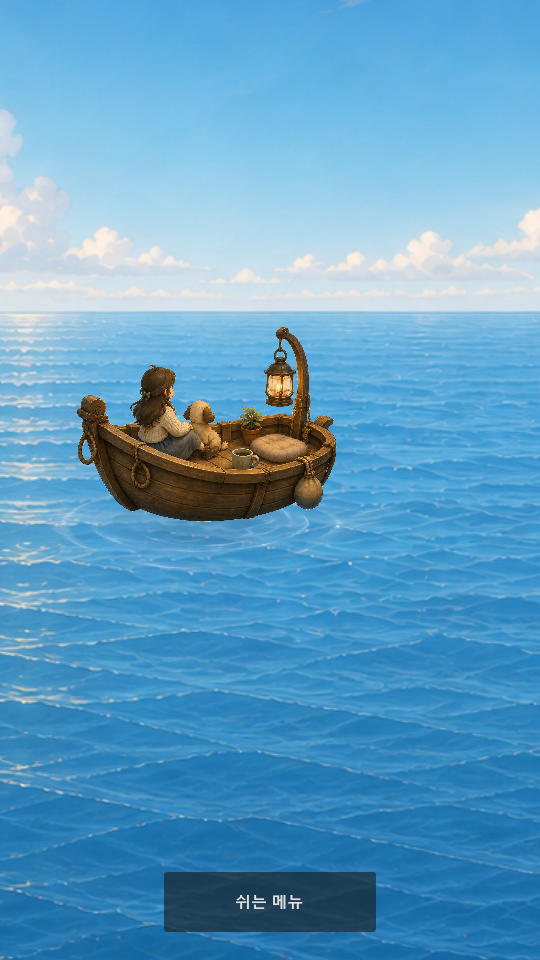
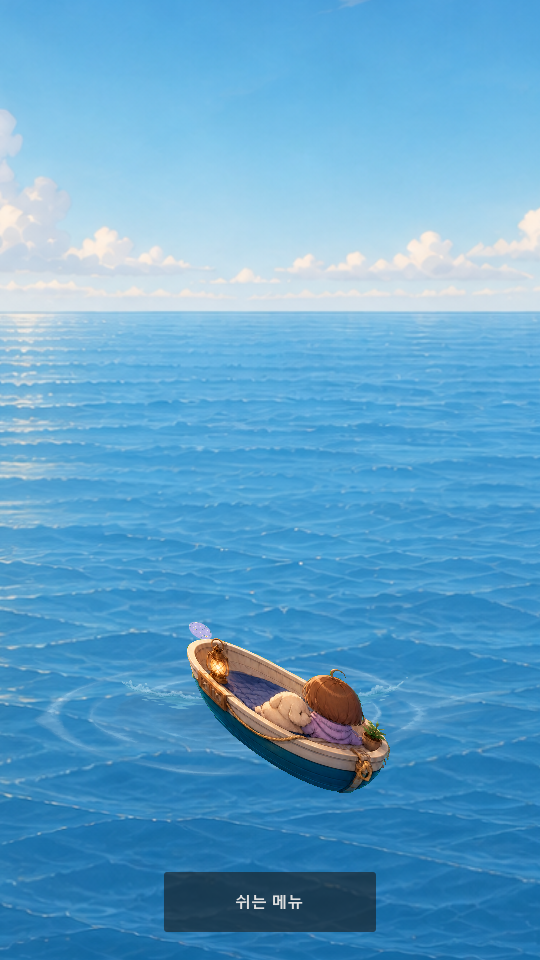
Verify voyage motion against benchmarks

diff --git a/docs/handoffs/CURRENT_GODOT_IMPLEMENTATION.md b/docs/handoffs/CURRENT_GODOT_IMPLEMENTATION.md
@@ -19,7 +19,7 @@
 | 저밀도 풍경 | `DriftSceneryDirector`는 foreground delta만 누적해 첫 **기회**를 90–150초에 예약하고, 기회마다 65% 확률로 현재 local-time의 `MLB-AMB-MOTIF-001..006` 중 하나를 표시한다. 표시 여부와 무관하게 이후 기회는 120–180초 뒤에 다시 예약된다. bright·sunset은 즉시 같은 motif를 반복하지 않는다. `GameScene`은 water-only `SeaBackdrop`을 유지한 채 chosen exact texture를 normal·Appreciation `AmbientSceneryPass`에 넣고, authored side hint `backdrop_offset_x`를 ±21 world-unit transit로 넓혀 약 14초간 좌우 이동·입퇴장 fade한다. pass는 세로 화면 높이를 overscan하므로 수평 image edge가 보트 화면을 가르지 않는다. Look Around art는 건드리지 않는다. 버튼·목적지·만료·보상 track은 없고, `save_memory=true`만 `GameState.record_ambient_memory`를 거쳐 `user://ambient_memory_v1.cfg`에 즉시 저장한다. 0회 항해는 정상이며 UI에 확률·대기 시간·missed state는 없다. | director/scene + ambient persistence/state/game-scene + motif asset contracts `PASS`; six 540×960 OpenGL pass captures `PASS`; Human long-run observation `NOT_RUN` |
 | 꾸미기 consumer | `DecorPanel`이 player/pet local selector와 boat decor controls를 제공하고, `DecorPreview`의 독립 `BoatSpace` instance가 그 state를 즉시 표시한다. 기본 C+강아지 final composite에서는 저장된 `pet_corner=pet_cushion, appearance=floral`만 bow-side overlay로 소비한다. 기존 save ID의 alternate A/B player, cat/rabbit/otter, `stripe`·`moon`은 user-approved canonical chibi paths로 layered card/decor texture에 연결된다. `rail_accent=postcard`는 main rest composite에 합성하지 않고 independent preview의 actual rail face로만 소비하며, 실제 voyage photo postcard는 Album에서 본다. 숨김 상태에서는 SubViewport 3D, render target, camera, preview BoatSpace를 모두 비활성화하고, 열 때만 함께 활성화한다. | identity/runtime-image/capture-guard/final-composite/decor-preview contracts `PASS`; alternate 540×960 GPU capture inspected; Human readability `NOT_RUN` |
 | 함께한 시간 consumer | `GameScene`은 foreground active-voyage delta만 `GameState.together_time_seconds`에 더하고, `TogetherTimePersistence`가 `user://together_time_v1.cfg`에 local-only로 저장한다. `AlbumView`만 duration·관계 문구를 표시한다. | persistence/state/game-scene/Album contracts `PASS`, 540×960 Album GPU capture inspected; Human readability `NOT_RUN` |
-| 모션 편안함과 기본 바다 흐름 | `ComfortPreferences`가 `user://comfort_preferences_v1.cfg`의 normalized `standard/gentle/still`만 저장한다. `GameScene`은 camera y bob, 하단 20% 기준의 `BoatSpace` y bob/roll, 목적지 없는 순환형 전후 surge와 미세한 측면 current, `BoatWaterContact`와 `BoatWaterlineContact`의 breath/offset/scale을 각각 `1.0 / 0.5 / 0.0`으로 곱한다. title waiting도 visual-only 저진폭 bob과 `voyage_water_flow.gdshader`의 below-horizon flow를 보이지만 voyage timer·together time·ambient director는 전진하지 않는다. 항해 시작 뒤 flow는 speed tier와 함께 빨라진다. 두 contact는 same x/z와 거의 같은 y bob을 따른다. `MLB-BOAT-FLT-006`은 depth test를 유지한 앞쪽의 얇은 선체 접점으로 runtime 소비되고, sea-focused Appreciation mode에서는 `BoatSpace`와 두 contact를 함께 숨겨 하단 UI와 겹치지 않는다. | forward-drift + waterline v2 + appreciation-foreground contracts `PASS`; `2026-08-31-title-boat-flow` OpenGL 2초 frame delta와 `2026-08-31-waterline-contact-v2` OpenGL title/voyage/Appreciation capture `PASS`; Human motion comfort `NOT_RUN` |
+| 모션 편안함과 기본 바다 흐름 | `ComfortPreferences`가 `user://comfort_preferences_v1.cfg`의 normalized `standard/gentle/still`만 저장한다. `GameScene`은 camera y bob, 하단 20% 기준의 `BoatSpace` y bob/roll, 목적지 없는 순환형 전후 surge와 미세한 측면 current, `BoatWaterContact`와 `BoatWaterlineContact`의 breath/offset/scale을 각각 `1.0 / 0.5 / 0.0`으로 곱한다. title waiting도 visual-only 저진폭 bob과 `voyage_water_flow.gdshader`의 below-horizon flow를 보이지만 voyage timer·together time·ambient director는 전진하지 않는다. 항해 시작 뒤 flow는 speed tier와 함께 빨라진다. 두 contact는 same x/z와 거의 같은 y bob을 따른다. `MLB-BOAT-FLT-006`은 depth test를 유지한 앞쪽의 얇은 선체 접점으로 runtime 소비되고, sea-focused Appreciation mode에서는 `BoatSpace`와 두 contact를 함께 숨겨 하단 UI와 겹치지 않는다. | forward-drift + waterline v2 + appreciation-foreground contracts `PASS`; 2026-08-31 OpenGL frame probe의 standard 수면 변화 `43.28% / 42.86%`, still 수면 변화 `41.49%`, contact lock `PASS`; current start/crest capture `PASS`; Human motion comfort `NOT_RUN` |
 | 항해 포스트카드 | `PhotoMemoryPersistence`가 `user://voyage_postcards_v1.cfg`와 local PNG directory를 함께 소유한다. `GameScene._capture_voyage_postcard()`는 public `TakePhotoButton` 흐름에서 selection UI만 잠시 숨기고 post-draw `ViewportTexture.get_image()`를 저장한 뒤 가시성을 원상 복구한다. `AlbumView`는 유효 PNG만 newest-first 세 장으로 표시하며 score/reward/share를 만들지 않는다. | persistence/state/game-scene/Album contracts와 isolated bright/Album GPU capture `PASS`; Human readability `NOT_RUN` |
 | 물고기와 완료 항해 기록 | `MemoryLedgerPersistence`가 `user://memory_ledger_v1.cfg`의 `fish`와 `voyage_records` string 목록만 즉시 local save·restore한다. `GameState.add_fish()`와 post-zero `complete_voyage()`가 각각 저장하고, Album은 복원된 최신 항목을 요약·recent memory로 소비한다. delayed bottle letter는 읽거나 쓰지 않는다. | persistence/state/Album contracts `PASS`; restored Album 540×960 OpenGL capture `PASS`; Human readability `NOT_RUN` |
 | 조용한 낚시와 작은 상호작용 | `CalmFishingSession`은 catch·quiet no-catch·cancel을 별도 state로 처리한다. catch만 기존 `GameState.add_fish()`를 호출하며, quiet/cancel은 저장·점수·연속 보상·손해 없이 action label을 reset한다. 동반자 `나란히 쉬기`는 existing `rest` pose와 private `moment_id`를, 난간 `파도 소리 듣기`는 text-only `moment_id`를 반환한다. | focused fishing/interaction contracts `PASS`; game-scene OpenGL contract `PASS`; quiet-fishing·pet-rest 540×960 OpenGL captures `PASS`; Human readability `NOT_RUN` |

diff --git a/docs/research/2026-08-31-voyage-motion-benchmark-verification.md b/docs/research/2026-08-31-voyage-motion-benchmark-verification.md
@@ -1,0 +1,49 @@
+# 목적지 없는 항해 모션 벤치마크와 런타임 역검증
+
+관찰일. 2026-08-31.
+
+대상. `MY LITTLE BOAT`의 normal voyage에서 보트가 수면 위에 자연스럽게 놓이고, 목적지·보상 압박 없이도 바다를 지나가는 느낌이 실제 renderer에서 읽히는지 확인한다.
+
+현재 revision. `dcb7a2f Add lower boat waterline contact v2`.
+
+## 외부 참고와 적용 경계
+
+| 참고 | 관찰된 원리 | 프로젝트 판단 |
+| --- | --- | --- |
+| [Bondee sailing guide](https://thehoneycombers.com/singapore/bondee-app-guide/) | 작은 보트 위 avatar와 시간이 지난 뒤의 산·물고기·발광 해파리·꽃 같은 풍경 조우를 한 흐름으로 보여 준다. | `ADAPT`. 보트·동반자·저밀도 자연 경관 통과만 채택한다. 장시간 대기 보상, 희귀 아이템, 낯선 사람 연결은 rest-first 정본과 충돌하므로 `REJECT`다. |
+| [Tangerine Development water study](https://tangerinedev.com/play/clouds-and-water) | 서로 위상이 다른 잔물결, 가까운 수면을 더 많이 움직이는 parallax, 보트의 상하 bob을 분리한다. | `ADOPT`. `voyage_water_flow.gdshader`의 below-horizon 흐름, camera/boat의 저진폭 bob, 수면 접점 동기화를 유지한다. |
+| [Chromosphere ocean case study](https://chromosphere-la.com/case-study/yuki7study6/) | 비슷하지만 다른 속도의 수면 레이어, 한 방향 wave, 보트·camera 주변에 국한한 추가 효과가 큰 전역 시뮬레이션보다 충분할 수 있다. | `ADAPT`. broad ripple과 narrow waterline을 선체 주변에만 두고, 전역 Gerstner mesh·고대비 sparkle·추가 procedural asset은 현재 범위에서 `DEFER`한다. |
+| [Godot spatial shader guide](https://docs.godotengine.org/en/stable/tutorials/shaders/your_first_shader/your_first_3d_shader.html) | spatial shader uniform은 GDScript에서 frame마다 갱신할 수 있고, texture sampling·vertex deformation은 필요한 수준에 맞춰 분리할 수 있다. | `ADOPT`. `flow_offset` uniform만 frame마다 갱신하고, 승인한 water-only 배경 원화와 simple fragment flow를 유지한다. |
+
+이 문서는 원리 참고만 기록한다. 특정 작품의 캐릭터 비율, UI, 보상 구조, 소셜 연결, trade dress를 복제하지 않는다.
+
+## 현재 구현 역공학
+
+`GameScene._process(delta)`는 매 frame `_apply_drift_motion(delta)`를 호출한다.
+
+1. `background_flow_offset`은 speed tier에 따라 누적되고 `voyage_water_flow.gdshader`의 `flow_offset` uniform으로 세 개 camera-local `SeaBackdrop`에 전달된다. shader는 horizon 아래의 UV만 천천히 이동시켜 하늘과 수평선을 고정한다.
+2. `BoatSpace`는 low-amplitude y bob, roll, 반복형 forward surge, lateral current를 사용한다. 이는 목적지·world traversal·save를 만들지 않는 visual context다.
+3. `BoatWaterContact`와 `BoatWaterlineContact`는 BoatSpace와 같은 x/z offset과 거의 같은 y bob을 사용한다. 한쪽은 넓은 반사, 다른 한쪽은 좁은 선체 수면선이라는 역할을 가진다.
+4. `standard/gentle/still`은 보트·camera·접점의 motion amplitude를 `1.0/0.5/0.0`으로 조절한다. `still`은 정지 화면이 아니라 보트 안정화이며, background water flow는 계속된다.
+5. `DriftSceneryDirector`의 자연 경관 통과는 90–150초 뒤 첫 기회, 이후 120–180초의 low-density pass로 분리돼 있다. 이 경관은 보상 트랙이나 목적지가 아니다.
+
+## 실제 renderer 확인
+
+Windows OpenGL Compatibility renderer와 NVIDIA GeForce RTX 3050에서 별도 진단을 실행했다. normal voyage를 시작한 뒤 540×960 frame을 GPU에서 직접 읽고, 보트가 없는 열린 수면 영역 `x=20..519, y=290..679`을 4px 간격으로 비교했다.
+
+| 항목 | 실제 결과 | 판정 |
+| --- | --- | --- |
+| standard 0.0→1.8초 수면 샘플 변화율 | `43.28%` | `PASS` |
+| standard 1.8→3.6초 수면 샘플 변화율 | `42.86%` | `PASS` |
+| still 0.0→1.8초 수면 샘플 변화율 | `41.49%` | `PASS` |
+| 표준 항해 flow offset | `0.0666`까지 단조 증가 | `PASS` |
+| wide/narrow contact의 보트 상대 위치 | 실제 `Sprite3D` transform이 boat drift delta에 잠김 | `PASS` |
+| still에서 보트 | base position으로 복귀 | `PASS` |
+
+두 renderer capture도 최신으로 다시 생성했다. [초기 frame](../evidence/2026-08-30-boat-float-contact/bright_boat_float_start_verified_v5_540x960.png)과 [다음 부유 frame](../evidence/2026-08-30-boat-float-contact/bright_boat_float_crest_verified_v5_540x960.png)은 보트·player·companion·두 수면 접점·열린 수면의 관계를 보존한다.
+
+## 결론과 한계
+
+현재 구조는 `FEASIBLE / IMPLEMENTED / MACHINE_VERIFIED / RUNTIME_CAPTURE_VERIFIED`다. 실제 흐름은 단순 변수 변경이 아니라 GPU frame의 열린 수면 변화로, 접점 부착은 Scene transform으로, visual output은 두 renderer capture로 각각 대조했다. 따라서 이번 확인 범위에서는 추가 물리 시뮬레이션, 보상성 목적지, 새 수면 자산을 도입할 필요가 없다.
+
+단, 이 결과는 한 Windows GPU/renderer의 기계 증거다. 실제 모바일 기기 성능, 색감, 터치, 5분 시청 중 시각 피로와 힐링감은 사용자가 Human 검증을 선언할 때까지 `NOT_RUN`이다. Godot 종료 시 `2 ObjectDB instances` warning도 발생했으므로, 이 warning은 성공 판정에 포함하지 않고 별도 engine/plugin baseline 진단 항목으로 유지한다.

diff --git a/docs/evidence/2026-08-30-boat-float-contact/README.md b/docs/evidence/2026-08-30-boat-float-contact/README.md
@@ -1,0 +1,22 @@
+# 보트 부유·수면 접점 최신 GPU 재검증
+
+## 범위
+
+이 디렉터리는 기존 보트 부유 증거의 owner를 유지하면서, 2026-08-31 하단 20% 프레이밍과 user-approved `MLB-BOAT-FLT-006` narrow waterline contact가 적용된 current branch에서 두 실제 GPU frame을 다시 생성한 결과를 보관합니다.
+
+## 실행 환경
+
+- Godot `4.7.2.stable.official.ed1daf0bf`
+- Windows OpenGL Compatibility renderer
+- NVIDIA GeForce RTX 3050, OpenGL `3.3.0 NVIDIA 572.16`
+- `GameScene` bright normal voyage, 540×960
+- `tests/capture_boat_float_contact.gd`가 initial frame 뒤 `_apply_drift_motion(1.45)`를 적용해 crest frame을 저장
+
+## 보존 파일
+
+| 파일 | SHA-256 | 관찰 가능한 사실 |
+| --- | --- | --- |
[2 lines of base64/hex data omitted]
+
+이 두 이미지는 renderer 통합 증거입니다. 실제 모바일 기기에서의 장시간 휴식감, 모션 민감성, 터치 도달성은 별도 Human 검증 전까지 `NOT_RUN`입니다.
